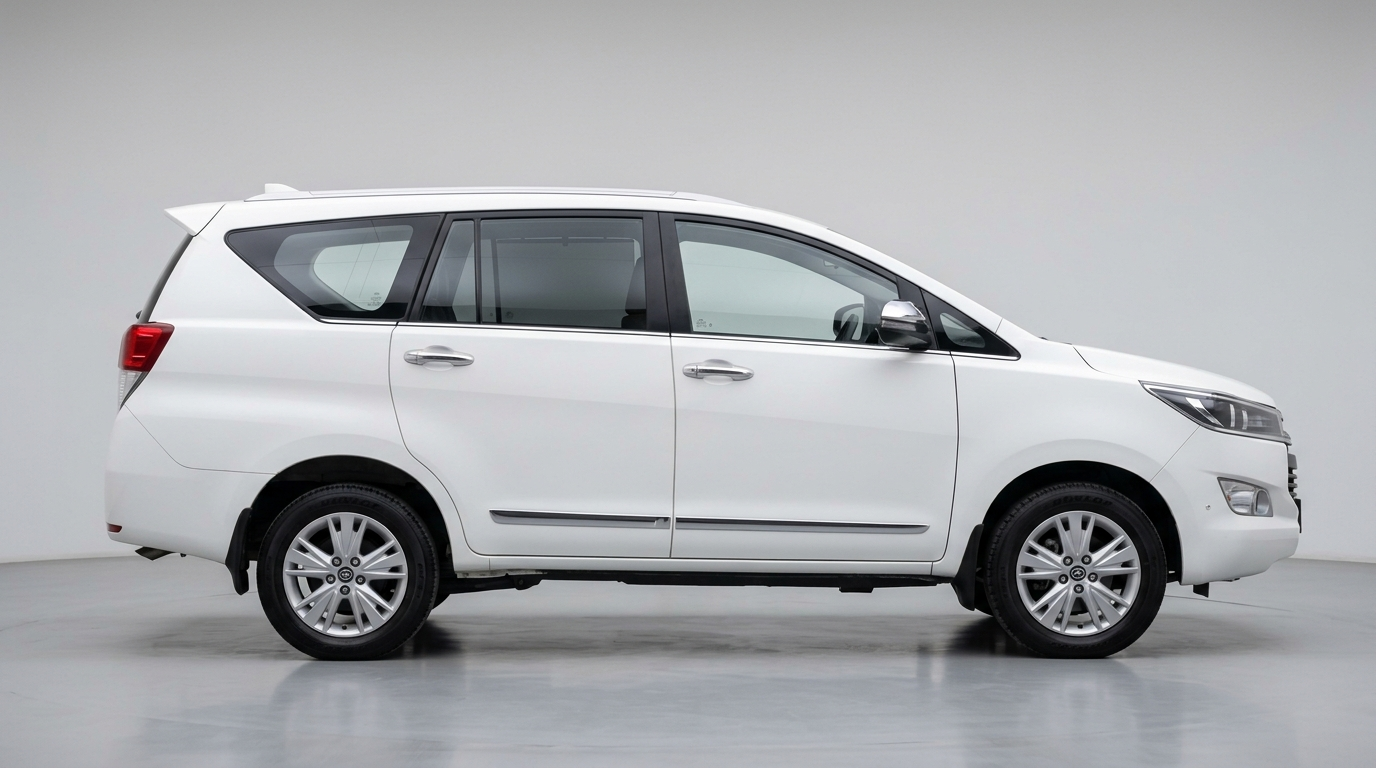
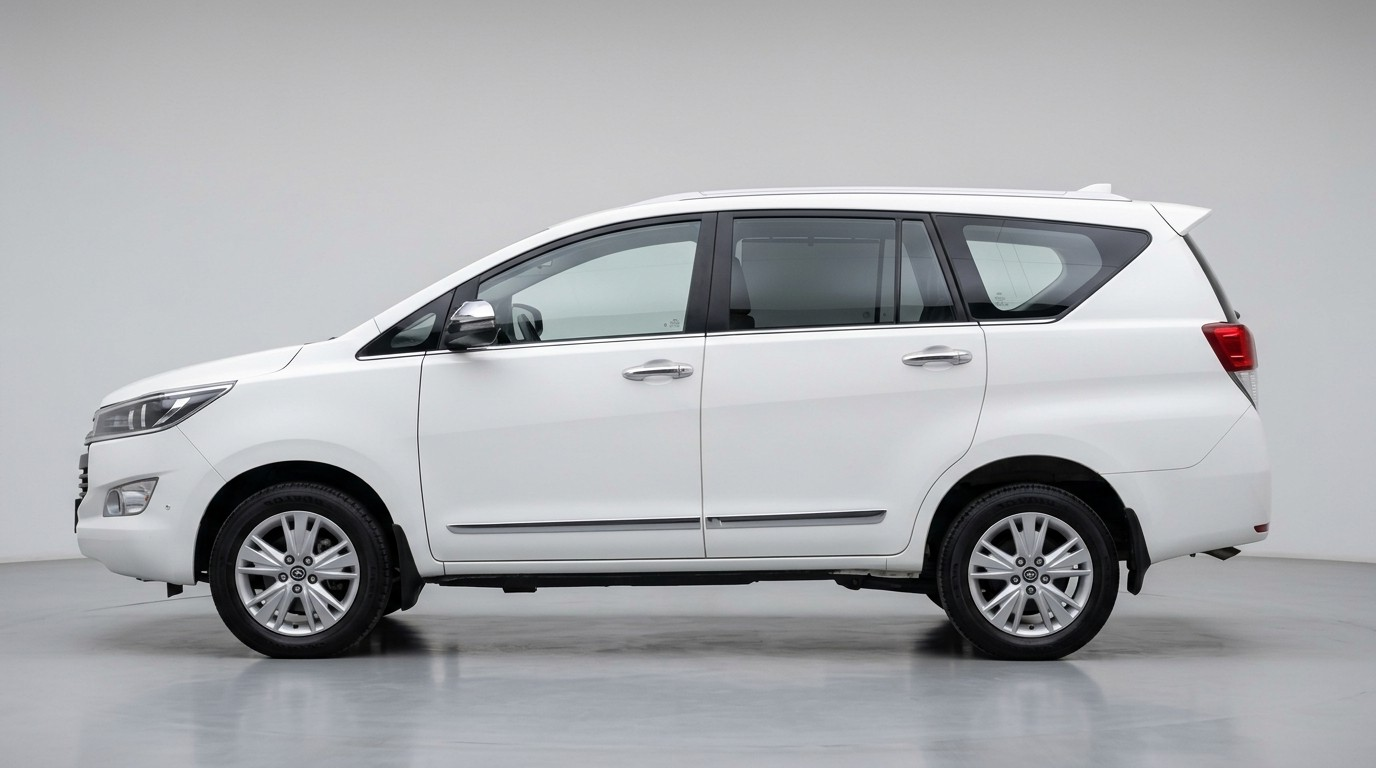
Flip Toyota Innova image and update image paths for UI uniformity

diff --git a/src/data/mockData.ts b/src/data/mockData.ts
@@ -293,7 +293,7 @@ export const vehicles: Vehicle[] = [
     name: 'Toyota Innova Crysta',
     type: 'PREMIUM',
     categoryTags: ['SUV', 'PREMIUM'],
-    image: '/images/toyota_innova.jpg',
+    image: '/images/toyota_innova.jpg?v=2',
     capacity: 7,
     features: ['Dual AC', 'Captain Seats', 'Superior Comfort', 'Smooth Highway Ride'],
     rating: 4.9,
